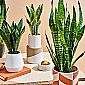
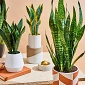
Cắt ảnh đúng tránh mờ

diff --git a/app/Services/Admin/ProductService.php b/app/Services/Admin/ProductService.php
@@ -1059,8 +1059,22 @@ class ProductService
                     }
                 }
 
-                // Làm nét ảnh sau khi resize để giảm độ mờ (sharpen từ 0-100)
-                $image->sharpen(15);
+                // --- Sharpen thông minh theo kích thước ---
+                // Ảnh nhỏ cần sharpen nhẹ hơn để tránh "lóa/gắt"
+                $sharpen = match (true) {
+                    $width <= 100 => 4,     // thumbnail rất nhỏ (85x85)
+                    $width <= 200 => 6,     // thumbnail nhỏ (155x155)
+                    $width <= 300 => 8,     // thumbnail trung bình
+                    default => 10,          // ảnh lớn
+                };
+                $image->sharpen($sharpen);
+
+                // --- Giảm halo cho thumbnail nhỏ ---
+                // Blur vi mô và giảm gamma để triệt ánh sáng gắt
+                if ($width <= 120) {
+                    $image->blur(0.08);     // 👈 đủ triệt halo, KHÔNG làm mềm ảnh
+                    $image->gamma(0.97);    // 👈 giảm lóa rất nhẹ, giữ màu trung thực
+                }
 
                 // Xác định quality dựa trên extension để giữ chất lượng cao
                 $quality = 95; // Mặc định 95% chất lượng cao
